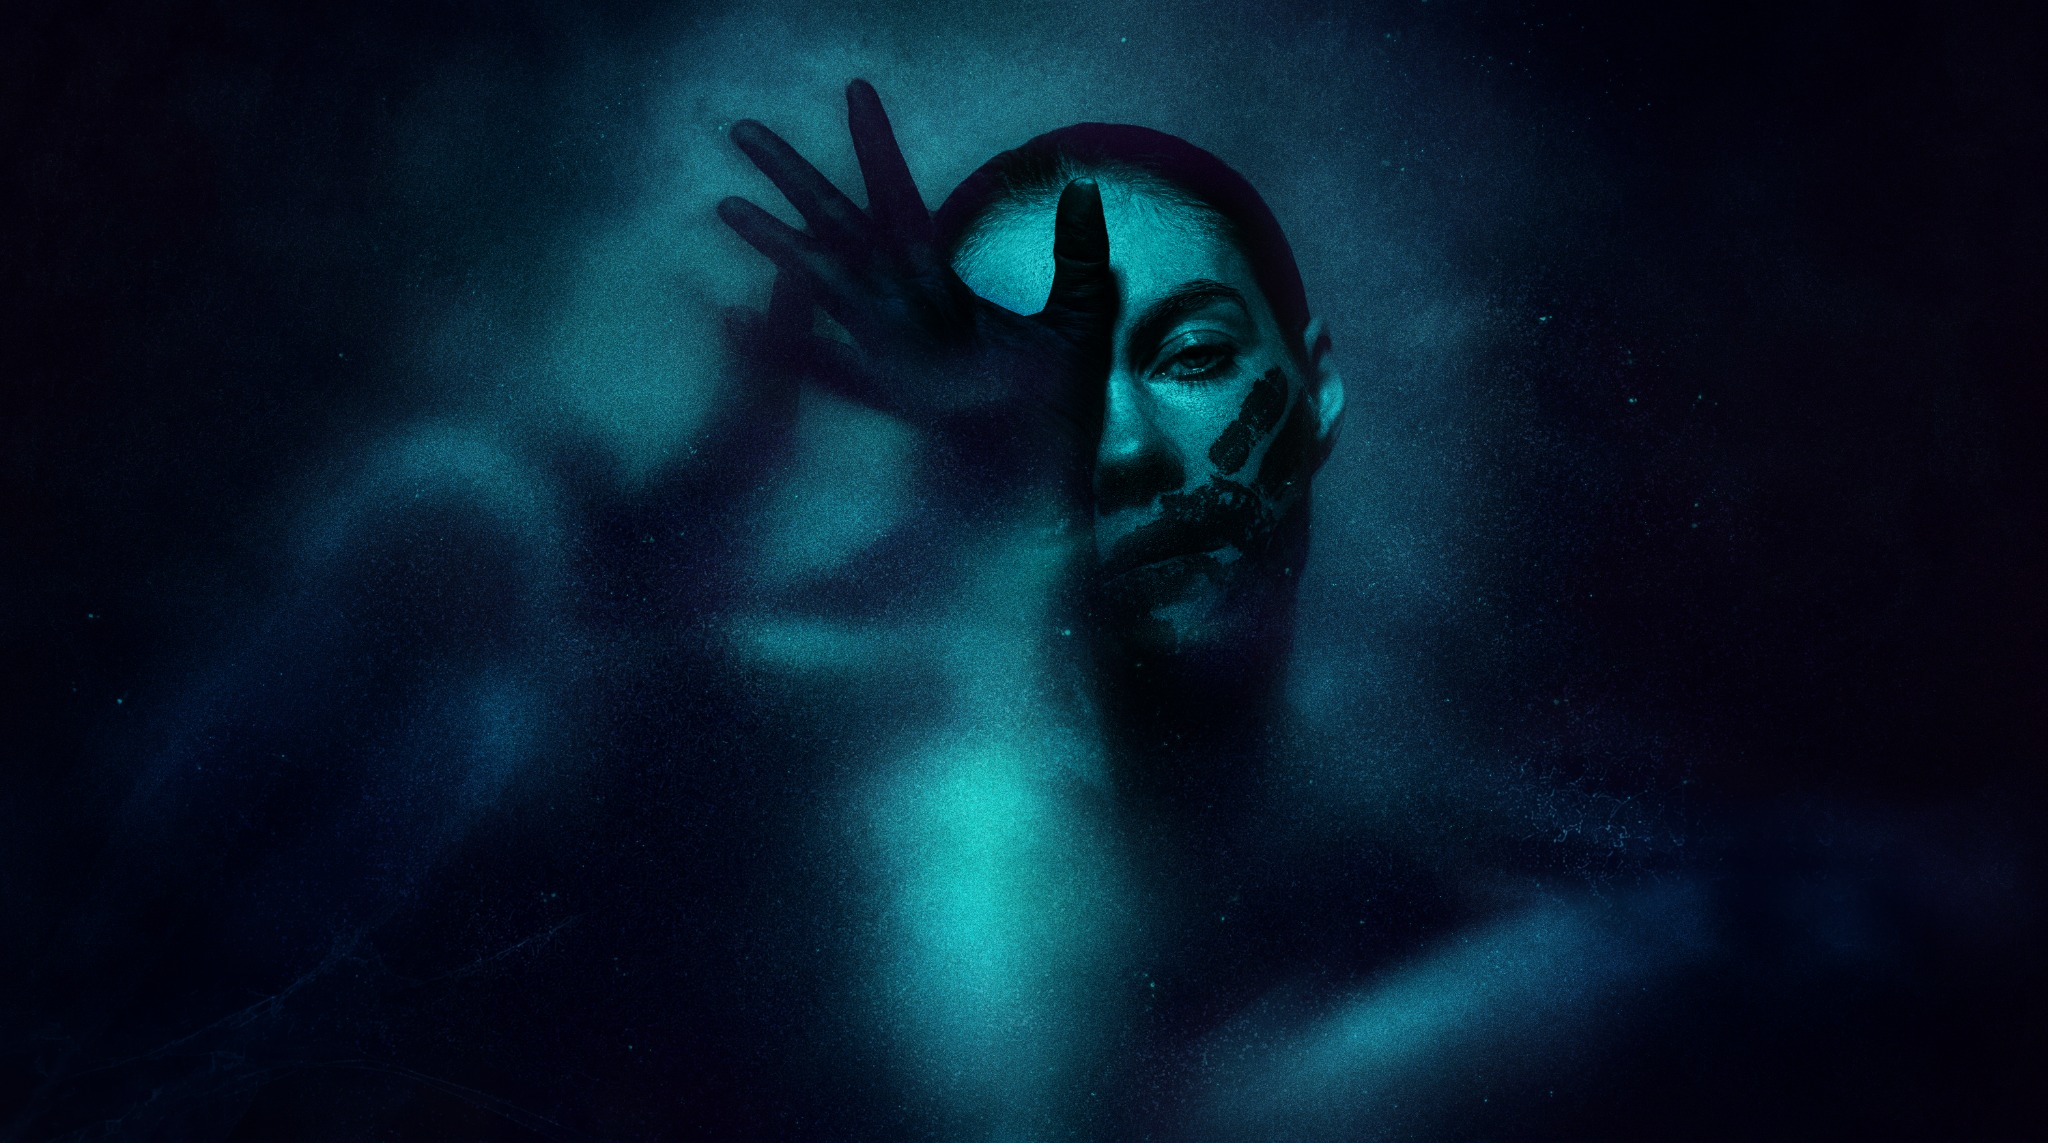
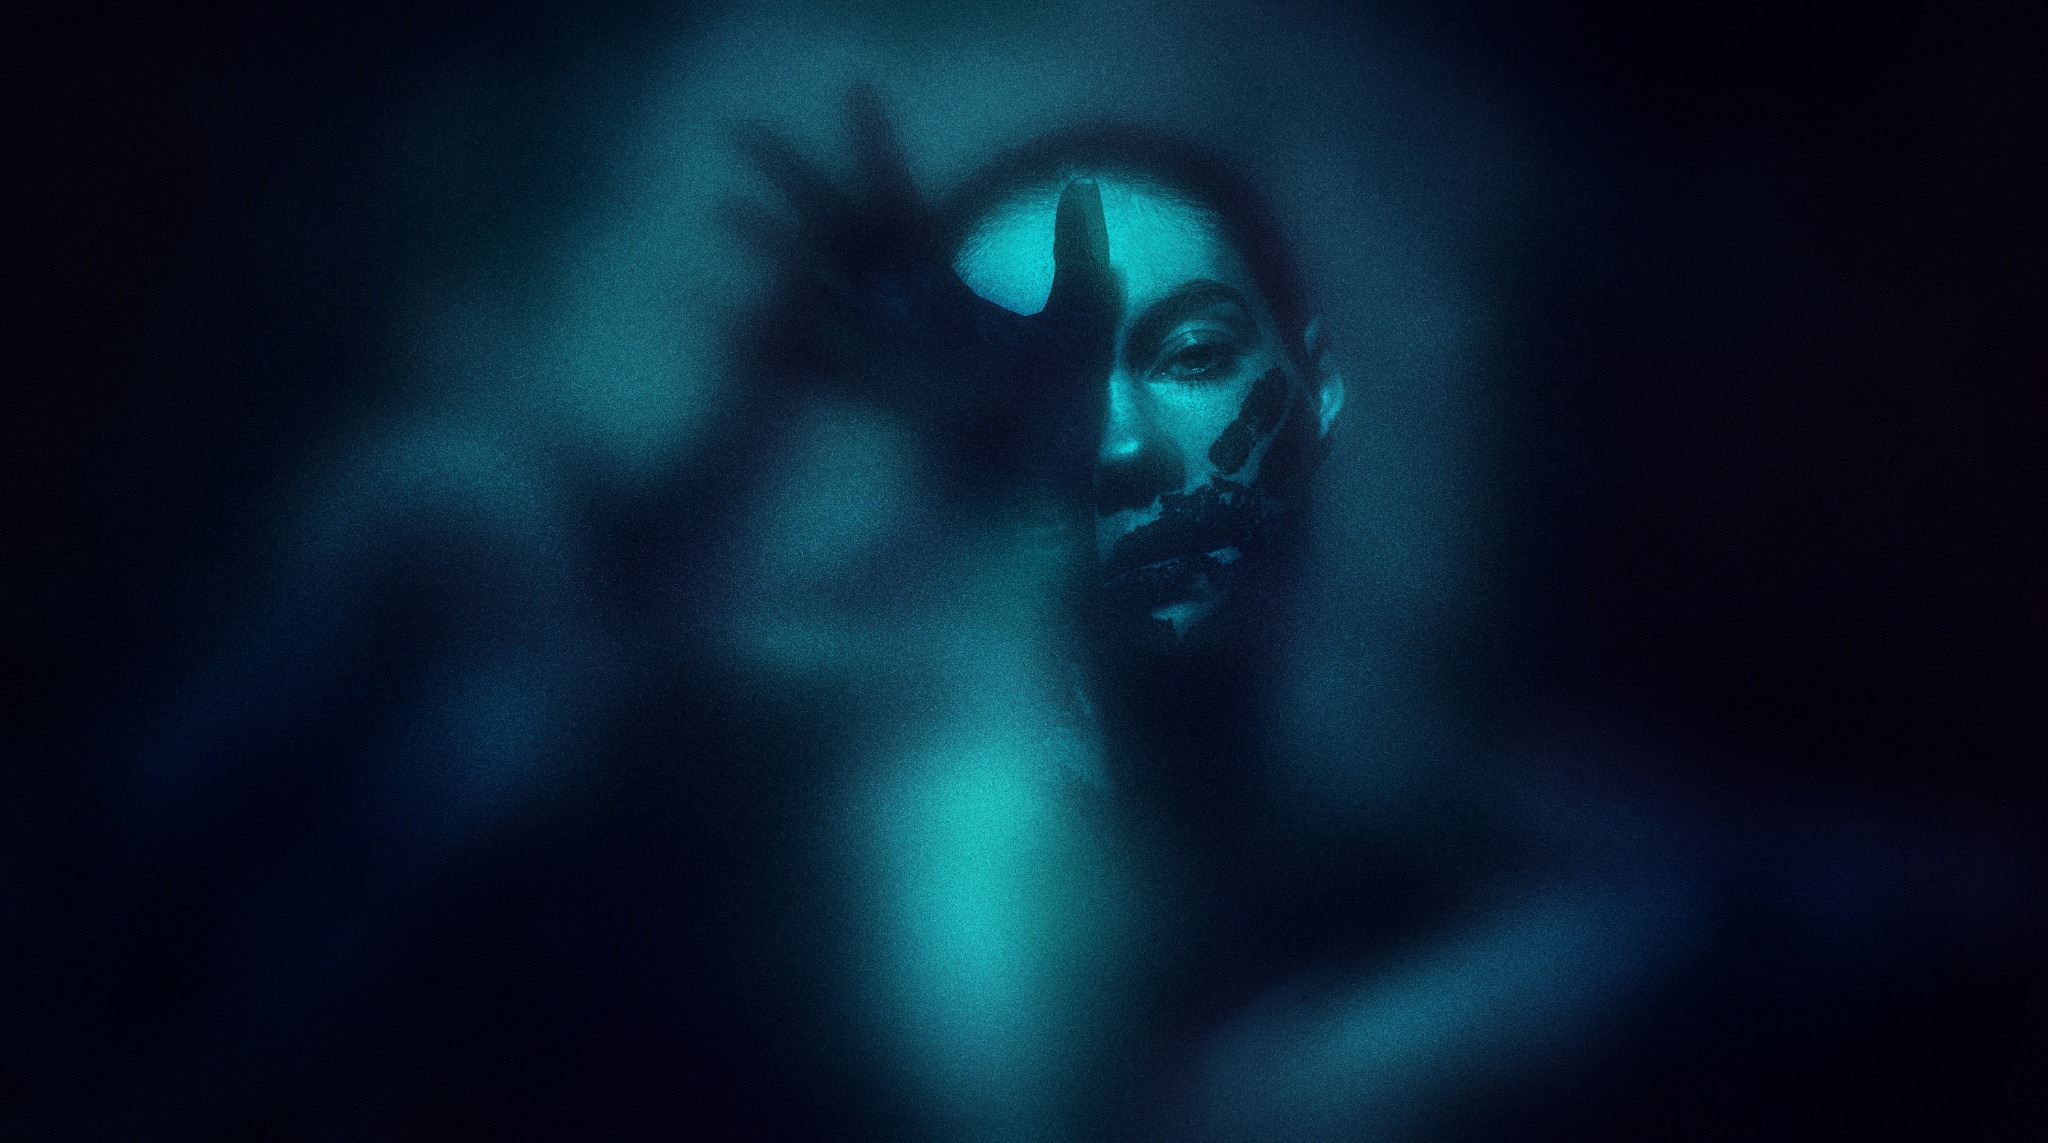
Replace background with supplied original and increase subtle motion to 4px

diff --git a/app.js b/app.js
@@ -39,7 +39,7 @@ document.querySelectorAll('[data-info]').forEach(button=>button.addEventListener
  document.querySelector('#projects').replaceChildren(p);dialog.showModal();
 }));
 
-// One intact image, at most two CSS pixels in the opposite direction.
+// One intact image, at most four CSS pixels in the opposite direction.
 (() => {
  const background = document.querySelector('#background');
  const motion = matchMedia('(hover: hover) and (pointer: fine) and (prefers-reduced-motion: no-preference)');
@@ -51,8 +51,8 @@ document.querySelectorAll('[data-info]').forEach(button=>button.addEventListener
   if (!motion.matches || event.pointerType !== 'mouse') return;
   const x = Math.max(-1, Math.min(1, event.clientX / innerWidth * 2 - 1));
   const y = Math.max(-1, Math.min(1, event.clientY / innerHeight * 2 - 1));
-  background.style.setProperty('--bg-x', `${(-x * 2).toFixed(3)}px`);
-  background.style.setProperty('--bg-y', `${(-y * 2).toFixed(3)}px`);
+  background.style.setProperty('--bg-x', `${(-x * 4).toFixed(3)}px`);
+  background.style.setProperty('--bg-y', `${(-y * 4).toFixed(3)}px`);
  }, {passive:true});
  document.documentElement.addEventListener('pointerleave', reset);
  window.addEventListener('blur', reset);

diff --git a/style.css b/style.css
@@ -14,8 +14,8 @@ dialog{width:min(1100px,92vw);max-height:90svh;overflow:auto;background:#080f18;
 nav a,nav button{transition:color 1.8s cubic-bezier(.22,.61,.36,1),text-shadow 1.8s cubic-bezier(.22,.61,.36,1);text-shadow:0 0 5px #a0ffff00,0 0 18px #20cbcf00}
 @media(hover:hover){nav a:hover,nav button:hover{color:#c9f5f6;text-shadow:0 0 5px #a0ffff80,0 0 18px #20cbcf70}}
 nav a:focus-visible,nav button:focus-visible{color:#c9f5f6;text-shadow:0 0 5px #a0ffff80,0 0 18px #20cbcf70}
-/* Three spare pixels conceal the edges; the original image is never filtered. */
+/* Five spare pixels conceal the edges; the original image is never filtered. */
 @media(hover:hover) and (pointer:fine) and (prefers-reduced-motion:no-preference){
 .scene{overflow:hidden}
-#background{position:absolute;left:-3px;top:-3px;width:calc(100% + 6px);height:calc(100% + 6px);transform:translate(var(--bg-x,0px),var(--bg-y,0px));transition:transform 1.8s cubic-bezier(.22,.61,.36,1)}
+#background{position:absolute;left:-5px;top:-5px;width:calc(100% + 10px);height:calc(100% + 10px);transform:translate(var(--bg-x,0px),var(--bg-y,0px));transition:transform 1.8s cubic-bezier(.22,.61,.36,1)}
 }

diff --git a/docs/design.md b/docs/design.md
@@ -1,6 +1,6 @@
 # Главная страница — Light
 
-Исходный assets/home-background.jpg сохранён без обработки. На компьютере всё изображение плавно сдвигается против мыши максимум на 2 CSS-пикселя по каждой оси, без дополнительных частиц, фильтров и шумовых слоёв. На сенсорных устройствах и при reduced motion фон статичный. Меню плавно светится при наведении за 1,8 секунды.
+Исходный assets/home-background.jpg сохранён без обработки. На компьютере всё изображение плавно сдвигается против мыши максимум на 4 CSS-пикселя по каждой оси, без дополнительных частиц, фильтров и шумовых слоёв. На сенсорных устройствах и при reduced motion фон статичный. Меню плавно светится при наведении за 1,8 секунды.
 
 Логотип Light: прямые векторные контуры, равная толщина вертикалей и горизонтали. Мягкий световой слой появляется за 1,8 секунды.
 
